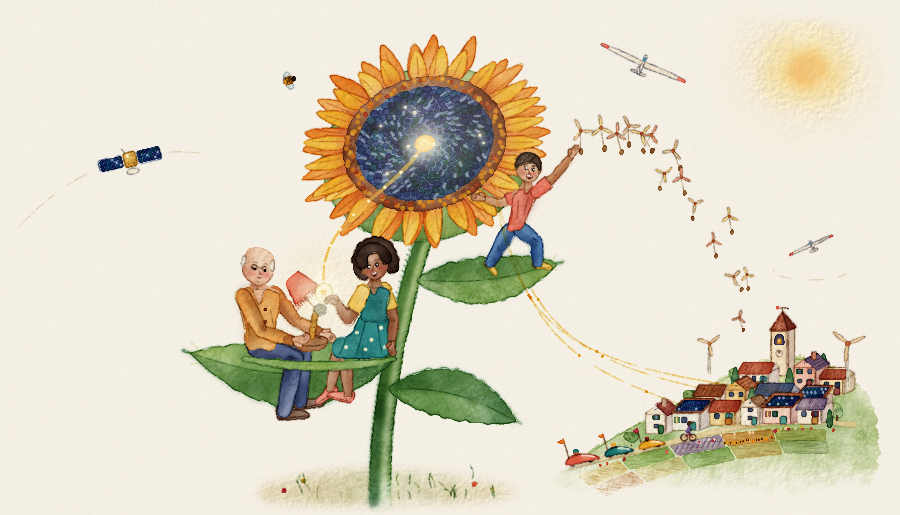
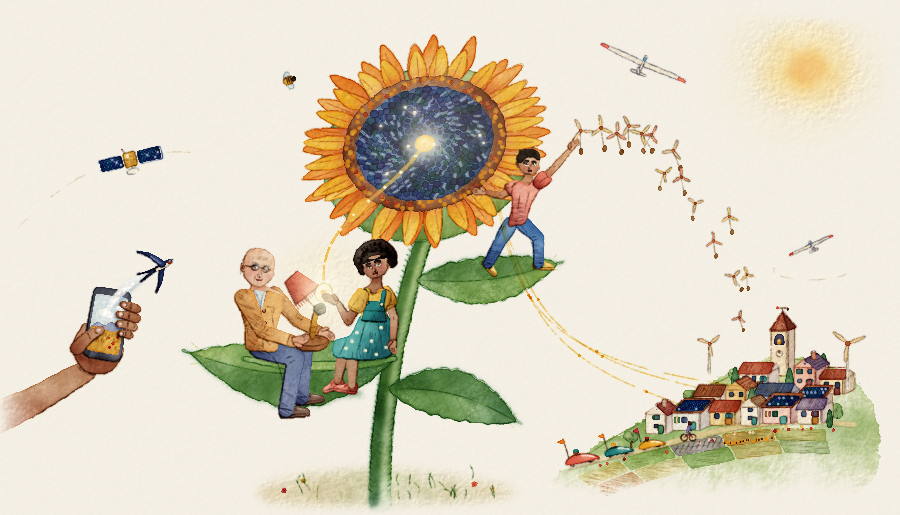
Calendario Arte: June Design 4 — more realistic figures (figuras_v3 kit) and a fourth character: a hand with a phone, a swallow flying out of the screen (evaluator 8.8/10)
Claude-Session: https://claude.ai/code/session_01WLMKSDKQCN5ewxoWJ2uMJK

diff --git a/src/data/calendarioArte.ts b/src/data/calendarioArte.ts
@@ -352,7 +352,7 @@ export const CALENDARIO_ARTE_POR_DEFECTO: ContenidoMes[] = [
       "Comunidad energética: hilos de luz entre vecinos.",
       "Antes de compartir una noticia, comprueba la fuente.",
       "Autoconsumo: con placas, tu tejado da parte de tu luz.",
-      "Hoy: pasa una tarde sin pantallas. ¿Qué descubres?",
+      "Hoy, como la golondrina: sal de la pantalla una tarde.",
       "La IA puede heredar los sesgos de los datos humanos.",
       "Planeador: sube sin motor, en aire que el sol calienta.",
       "¿Qué tecnología te mejora la vida y cuál la complica?",

diff --git a/design/calendario-arte/generadores/diseno4/personajes_06.py b/design/calendario-arte/generadores/diseno4/personajes_06.py
@@ -163,8 +163,8 @@ def nino(lz):
            pliegues=[[(858, 318), (854, 352)], [(874, 314), (866, 346)], [(848, 336), (844, 362)],
                      [(878, 330), (870, 358)]], semilla=34)
     lz.lapiz([bezier((840, 362), (852, 368), (866, 362), n=10)], linea_de(CAM, 0.5), grosor=0.6, presion=0.45)
-    cabeza3(lz, 872, 268, 20, P3, '#3a2620', 'corto', luz, giro=0.5, inclina=10, edad='nino', ojos='abiertos',
-            boca='risa', mira=(1, -1), semilla=35)
+    cabeza3(lz, 872, 268, 20, P3, '#3a2620', 'corto', luz, giro=0.5, inclina=3, edad='nino', ojos='abiertos',
+            boca='risa', mira=(1.0, -1.6), semilla=35)
     brazo3(lz, (888, 302), (914, 276), (940, 246), 13, CAM, P3, luz, 'corta',
            mano=dict(ang=-55, gesto='abierta', lado=-1, tam=21), semilla=36)
 
@@ -193,12 +193,16 @@ def mano_con_telefono(lz):
     antebrazo = Trazo([codo, (codo + muneca) / 2 + (0, 4), muneca], (54, 44, 34), suave=True)
     lz.aguada(antebrazo, piel, dens=0.62, tapa=1, borde=0.7, irreg=0.6, gran=0.45, desvanece=(70, 650, 18, 680))
     lz.aguada(antebrazo, sp, dens=0.4, borde=0.2, irreg=0.4, gran=0.35, desvanece=(110, 700, 120, 640))
-    linea_luz(lz, antebrazo, lp, luz, grosor=0.7, limite=(52, 0, 1485, 850))
+    linea_luz(lz, antebrazo, lp, luz, grosor=0.6, limite=(52, 0, 1485, 850))
     # the palm behind the phone: thenar mound on the left, heel below
-    palma = Poligono([P(-28, 4), P(-42, 20), P(-47, 42), P(-42, 60), P(-30, 74), P(-10, 80), P(10, 76), P(24, 64),
-                      P(30, 30)])
-    modelar(lz, palma, piel, luz, dens=0.62, prof=0.38, sombra=sp, linea=lp, grosor=0.7, rayar=False, semilla=42)
-    lz.lapiz([list(bezier(P(-38, 50), P(-30, 66), P(-14, 76), n=10))], lp, grosor=0.5, presion=0.4, temblor=0.1)
+    palma = Poligono([P(-28, 4), P(-42, 18), P(-48, 38), P(-44, 58), P(-34, 72), P(-22, 82), P(-4, 84), P(14, 78),
+                      P(26, 64), P(30, 30)])
+    modelar(lz, palma, piel, luz, dens=0.62, prof=0.38, sombra=sp, linea=lp, grosor=0.6, rayar=False, semilla=42)
+    # the thumb's mound, set off from the palm by its crease, and the crease where the hand meets the wrist
+    lz.aguada(Elipse(*P(-36, 52), 11, 18, ANG + 20) & palma, tono(piel, '#f2c8a8', 0.25), dens=0.3, suave=4)
+    lz.lapiz([list(bezier(P(-28, 34), P(-24, 56), P(-12, 74), n=12))], lp, grosor=0.5, presion=0.42, temblor=0.1)
+    lz.lapiz([list(bezier(P(-36, 78), P(-20, 86), P(-2, 85), n=10)), list(bezier(P(-32, 82), P(-18, 89), P(-6, 88), n=10))],
+             lp, grosor=0.45, presion=0.35, temblor=0.1, cortes=0.2)
 
     pant, S = telefono(lz, C[0], C[1], W, H, ANG, luz, semilla=43)
     lz.aguada(Poligono([P(-31, 58), P(31, 58), P(30, 67), P(-28, 67)]) & palma, sp, dens=0.4, suave=2)

diff --git a/design/calendario-arte/generadores/diseno4/figuras_v3.py b/design/calendario-arte/generadores/diseno4/figuras_v3.py
@@ -484,8 +484,8 @@ def cabeza3(lz, x, y, r, piel, pelo, peinado, luz, giro=0.0, inclina=0.0, edad='
             lz.aguada(Elipse(ci[0], ci[1] + ri * r * 0.25, ri * r * 0.9, ri * r * 0.5) & forma, tono(iris, '#d9a46a', 0.35),
                       dens=0.35, irreg=0.05)
             lz.aguada(Elipse(ci[0], ci[1], ri * r * 0.45) & forma, '#140c0a', dens=1.0, tapa=1, irreg=0.02)
-            lz.aguada(Poligono(list(bezier(oc, top, ic, n=12)) + list(bezier(ic, R(cx, cy - hgt * 0.45), oc, n=12)),
-                               suave=False) & forma, '#5a3a2c', dens=0.3, irreg=0.05)       # lid shadow on the eyeball
+            lz.aguada(Poligono(list(bezier(oc, top, ic, n=12)) + list(bezier(ic, R(cx, cy - hgt * 0.72), oc, n=12)),
+                               suave=False) & forma, '#5a3a2c', dens=0.2, irreg=0.05)       # lid shadow on the eyeball
             # a small catch light high on the pupil: a big one beside the iris reads as white of the eye
             # and turns the gaze the wrong way
             lz.gouache(Elipse(ci[0] + ri * r * 0.18 * L[0], ci[1] - ri * r * 0.3, max(0.3, ri * r * 0.17)), '#fffdf6',

diff --git a/memory/08_CHANGELOG.md b/memory/08_CHANGELOG.md
@@ -10990,3 +10990,15 @@ Eugenio: «permite que el triciclo bala se le pueda modificar más los parámetr
   - el deslizamiento en el móvil.
 
   No hubo errores en la consola.
+  - Junio, Diseño 4: personajes repintados con más realismo (Eugenio: «más realista, y trazos más profesionales»). Nuevo kit `design/calendario-arte/generadores/diseno4/figuras_v3.py`:
+    - Una sola luz por figura: la bombilla para el abuelo y la niña, el sol para el niño.
+    - Cada forma lleva sombra que se desvanece hacia la luz, rayado de lápiz solo en la sombra de la ropa (nunca en la piel) y una línea firme en el lado oscuro que se pierde en el iluminado.
+    - Brazos y piernas anatómicos: deltoides, codo, antebrazo, muñeca; muslo, rodilla, gemelo, tobillo. Zapatos con suela y cordones.
+    - Cabezas con proporciones reales: ojos almendrados con blanco, iris, pupila y brillo; nariz con su plano de sombra y aleta; labios superior e inferior; orejas; afro como una sola masa con rizos; canas y arrugas en el abuelo.
+    - La niña lleva un peto con tirantes sobre la camiseta amarilla.
+    - El borde de la hoja ahora pasa por detrás de sus piernas, con sombras de contacto.
+  - Junio, Diseño 4: cuarto personaje, del que solo se ven la mano y el móvil, entrando por el borde izquierdo (Eugenio, con la referencia de un mural, sin la frase). En la pantalla hay un campo de trigo con amapolas bajo un cielo de verano; de su nube sale volando una golondrina hacia el cielo de verdad. Día 26 enlazado: «Hoy, como la golondrina: sal de la pantalla una tarde.». Evaluador independiente:
+    - Personajes: de 5 a 7,3.
+    - La mano: 7,5.
+    - Ilustración: de 8,5 a 8,8, tras dos rondas de arreglos (mirada de los niños, pelo de la niña, orejas, cuellos sin raya, dedos, estela que nace en la pantalla).
+    - El resto de meses sigue con las figuras de `extra_m678.py`; `figuras_v3.py` se puede usar en ellos si se pide.
